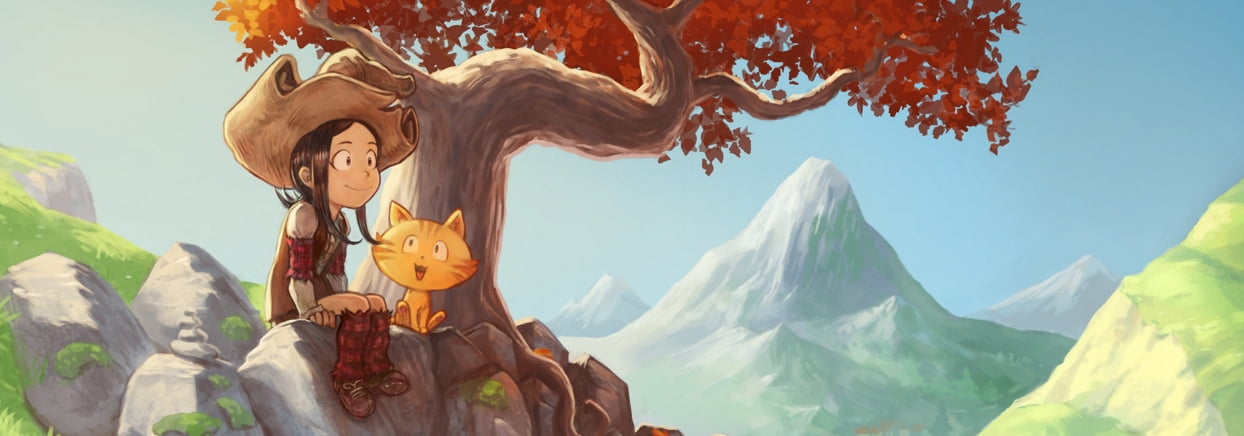
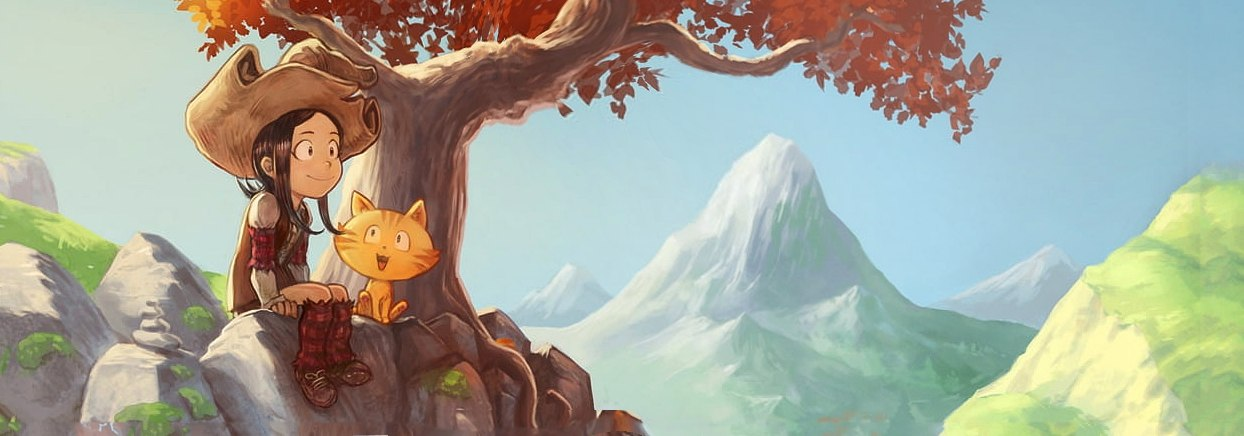
Refactor supportme.php: now modular across homepage, webcomic article, philosophy
All this part of the website had their own Patreon button, alternatives and it wasn't
consistent. This commit port everything to the supportme.php , and then display it as
a card on the target pages. Easier to maintain and also more consistent.

diff --git a/themes/peppercarrot-theme_v2/css/theme.css b/themes/peppercarrot-theme_v2/css/theme.css
@@ -47,42 +47,37 @@ h4{font-size:1.2rem}
 .responsive-menu label { color: #3A2619; background-color: transparent; font: normal 2rem 'ComicSpice', cursive; }
 
 /* translation pills */
-.translabar { padding: 0 0 0 0; margin: 0.5rem 0; max-width: 990px }
+.translabar { padding: 0 0 0 0; margin: 0.5rem 0; max-width: 1060px }
 .translabar li { background-color: #FFF; margin: 0.2rem; padding: 0.3rem 0.4rem; border: solid 1px #D7EBFA; border-radius: 10px }
 .translabar li.active { background-color: #D7EBFA; border: solid 1px #B1D6F2;}
 .translabar a { text-decoration: none; font-size: 0.9rem; }
 
 /* HOMEPAGE */
+
 /* cover */
 .cover { height: 400px; border-radius: 0.4rem; color:#DDD; margin-bottom: 0.3rem; background: url('../img/pepper-carrot-cover3_by-david-revoy.jpg') no-repeat center left; }
-.cover h1 { color: #FFF; text-shadow: 0 2px 2px #000; margin: 0.4rem; line-height: 2.6rem; font-size: 2.4rem; text-align:right; }
-.covertextoverlay { position: absolute; right: 2.5rem; top: 1.6rem; text-align:right; }
-#coverpatronbox { color: #222; background-color: #FFF; width: 375px; height: 170px; padding: 10px 4px; margin: 2.5rem 0 0 auto; text-align: center; font-size: 1.2rem; box-shadow: 0 3px 3px rgba(0,0,0,0.3); }
-#coverpatronbox img{ margin-top: 6px; }
-#alternativesbox { color: #8F8F8F; position: absolute; bottom: 13px; right: 6px; width: 360px; font-size: 0.95rem; line-height: 1.8; text-align: center;  }
-
-.custombigbutton	{ font-weight: bold; display:block; background-color: #777;	border-color: transparent; color: #fff; cursor: pointer; padding: .7rem 1.2rem; box-shadow: 0 3px 3px rgba(23,23,23,0.3); border-radius: 0.6rem; text-shadow: 0 2px rgba(18,18,18,0.3);}
-.custombigbutton:hover	{ opacity: 0.8;}
-.liberapay { width: 220px; font-size: 1.8rem; color: #fff; padding-left: 3.5rem; background: #f6c914 url('../img/logo-liberapay.svg') no-repeat center left; margin: 0.4rem auto 0 auto; }
-
-.custombutton	{ font-weight: bold; font-size: 0.85rem; background-color: #777;	border-color: transparent; color: #fff; cursor: pointer; padding: .3rem 0.4rem; margin-right: 0.1rem; box-shadow: 0 2px 2px rgba(18,18,18,0.3); border-radius: 0.3rem; text-shadow: 0 1px rgba(18,18,18,0.3);}
-.custombutton:hover	{ opacity: 0.8;}
-.minipatreon { color: #fff; padding-left: 1.9rem; background: #f96854 url('../img/logo-patreon.svg') no-repeat center left 3px; }
-.tipeee { color: #fff; padding-left: 1.9rem; background: #d84759 url('../img/logo-tipeee.svg') no-repeat center left 3px; }
-.paypal { color: #fff; padding-left: 1.9rem; background: #FFC438 url('../img/logo-paypal.svg') no-repeat center left 3px; }
-.iban { color: #fff; padding-left: 1.9rem; background: #4595e0 url('../img/logo-iban.svg') no-repeat center left 3px; }
-
-#alternatives .link { color: #8F8F8F; text-decoration: underline; }
-#alternatives .link:hover { color: #333; }
+.cover h1 { color: #FFF; margin: 0.4rem; line-height: 2.6rem; font-size: 2.4rem; text-align:right; text-shadow: 0 1px 1px rgba(0,0,0,0.4), 0 2px 2px rgba(0,0,0,0.3), 0 4px 2px rgba(0,0,0,0.4);}
+.covertextoverlay { position: absolute; right: 5.5rem; top: 3rem; text-align:right; }
+#coversupportbox { position: absolute; right: -0.85rem; top: 9.5rem; color: #222; width: 450px; height: 190px; text-align: center; }
 .homepage-title { font-family: 'ComicSpice', cursive; font-size:1.5rem;}
-.joinnow { color: #fff; background-color: #232D32; padding:0.8rem 0.7rem 0.6rem 0.7rem; border-radius: 0.4rem; box-shadow: 0 5px 5px rgba(23,23,23,0.3);}
-.joinnow:hover { color: #fff; text-decoration: none; background-color: #223B48; }
-.moreinfo { color: #587930; background: #a7e059; background: linear-gradient(#baf765, #a7e059); padding:0.8rem 0.7rem 0.6rem 0.7rem; border-radius: 0.4rem; box-shadow: 0 5px 5px rgba(23,23,23,0.3);}
-.moreinfo:hover { color: #82C036; text-decoration: none; background: #a7e059; background: linear-gradient(#EDFFA6, #a7e059); }
+
+/* Support box */
+.bigbuttonpatreon { font-size: 1.8rem; font-weight: bold; font-family: ubuntu, helvetica, arial, sans-serif; color: #FFFFFF; text-align: center; min-height: 80px; min-width: 374px; padding: 0 0 10px 0; margin: 0 auto; display: inline-block; text-decoration: none; border-radius: 10px; box-shadow: 0 2px 3px rgba(23,23,23,0.3);  background: #F96854 url('../img/logo-patreon.svg') no-repeat 120px 36px; background-size: 42px 42px; text-shadow: 0 1px 1px rgba(0,0,0,0.4) }
+.bigbuttonpatreon:hover { color: #FFF; text-decoration: none;}
+.alternatives {font-size: 0.8rem; font-weight: normal; font-family: ubuntu, helvetica, arial, sans-serif; color: rgba(0,0,0,0.5); margin: 0.5rem 0;}
+.custombutton	{ font-size: 0.85rem; font-weight: bold; font-family: ubuntu, helvetica, arial, sans-serif; color: #FFFFFF; text-align: center; padding: .3rem 0.4rem; margin-right: 0.1rem; background-color: #777;	border-color: transparent; box-shadow: 0 2px 2px rgba(18,18,18,0.3); border-radius: 0.3rem; cursor: pointer; text-shadow: 0 1px 1px rgba(0,0,0,0.4);  }
+.custombutton:hover	{ color: #FFF; opacity: 0.8; }
+.tipeee { padding-left: 32px; background: #d84759 url('../img/logo-tipeee.svg') no-repeat center left 3px; }
+.paypal { padding-left: 28px; background: #FFC438 url('../img/logo-paypal.svg') no-repeat center left 3px; }
+.liberapay { padding-left: 28px; background: #ffd115 url('../img/logo-liberapay.svg') no-repeat center left 3px; }
+.G1 { padding-left: 28px; background: #2873B7 url('../img/logo-g1.svg') no-repeat center left 3px; }
+.iban { padding-left: 28px; background: #4595e0 url('../img/logo-iban.svg') no-repeat center left 3px; }
+
 /* box */
 .homebox { position: relative;}
 .homebox h2 { font: normal 1.5rem 'ComicSpice', cursive; margin: 0 0 0.4rem 0; padding: 0 0; min-height: 1rem; text-decoration: none; overflow: hidden; white-space: nowrap; }
 .news {margin-bottom: 1rem;}
+
 /* last episode */
 .lastep { position: relative; border-radius: 0.4rem; }
 .lastep img { border: solid 1px #EFEFEF; border-radius: 0.4rem; border: solid 1px #EFEFEF; width:100% }
@@ -150,22 +145,6 @@ input[type=search] { margin: 1.2rem 0 0 0; background: #ededed url(../img/search
 /* ----------- */
 /* link to sources */
 .sourcebutton { margin: 0 auto; background: #D7EBFA url('../ico/dl_sources.svg') no-repeat center left 10px; padding: 0.6rem 0.7rem 0.6rem 3rem; border-radius: 10px }
-
-/* Follow me footer webcomic */
-.followcomic { padding: 0 0; margin: 0 0; font-size: 1.3rem; color: #000; font-family: 'ComicSpice';}
-.followcomic b{ font-size: 1.5rem;}
-.followbutton { display: block; text-decoration: none; color: #FFFFFF; width: 100%; padding: 0.1rem 0.5rem; margin: 0.1rem 0rem; border-radius: 10px; box-shadow: 0 2px 3px rgba(23,23,23,0.3); }
-.followbutton:hover { text-decoration: underline; color: #FFF; }
-
-/* Support */
-.patreon { padding: 1.5rem 0 0 2.5rem; margin: 0 auto; background: url('../img/followbackground_patreon-logo.png') no-repeat center left; background-color: #F96854; min-height: 80px; max-width:480px; text-align: center; color: #111; font-size: 1.5rem; margin-bottom: 0.8rem; color: #FFF; }
-.patreon:hover { text-decoration: none; }
-.supportmetxt { color: #999; font: 1rem ubuntu,Arial,sans ;}
-.supportmetxt a { color: #2B92D7; text-decoration: underline; }
-.donationillustration { display: block; min-height: 280px; background: url('../img/followbackground_patreon_illu.jpg') no-repeat center;}
-.paypal { min-height: 45px; text-align: center;}
-div.paypal form { margin-bottom: 0; display: inline;}
-div.paypal form input { padding: 0; background: transparent; border: 2px inset #D9D9D9; width: auto; border-radius: 0; }
 
 /* Network */
 .twitter { background: url('../img/followbackground_twitter.jpg') no-repeat center left; background-color: #3DB8E4; min-height: 80px; text-align: right;}
@@ -282,14 +261,14 @@ a:hover { text-decoration:none;}
 @media (max-width: 900px) {
 input[type=search] { margin: 1.2rem 0 1.2rem 0; max-width: 300px; }
 .cover h1 { font-size: 2.2rem; margin: 1rem 0 0.4rem 0; }
-.cover { background: url('../img/pepper-carrot-cover2_by-david-revoy.jpg') no-repeat 25% 80%; }
+.cover { background: url('../img/pepper-carrot-cover3_by-david-revoy.jpg') no-repeat 25% 80%; }
 .moreposts { text-align: center; margin: 1rem 0 0 0; }
 }
 
 /* vertical++ */
 @media (max-width: 700px) {
 .cover h1 { font-size: 1.8rem; margin: 0.3rem 0 0.4rem 0; }
-.cover { height: 350px; background: url('../img/pepper-carrot-cover2_by-david-revoy.jpg') no-repeat 35% 5%; }
+.cover { height: 350px; background: url('../img/pepper-carrot-cover3_by-david-revoy.jpg') no-repeat 35% 5%; }
 .covertextoverlay { right: 1.3rem;}
 }
 
@@ -316,8 +295,9 @@ input[type=search] { margin: 1.2rem 0 1.2rem 0; max-width: 300px; }
 .cover h1 { font-size: 1.48rem; color: #111; margin: 0.3rem 0 1.1rem 0; text-shadow:none; }
 .joinnow { font-size: 0.8rem }
 .moreinfo { font-size: 0.8rem }
-.cover { background: url('../img/pepper-carrot-cover2_by-david-revoy.jpg') no-repeat 28% bottom; }
+.cover { background: url('../img/pepper-carrot-cover3_by-david-revoy.jpg') no-repeat 28% bottom; }
 .buttoncoverbox { top: 0px; right: 1.3rem; padding-right: 0.5rem} 
+.bigbuttonpatreon { min-width: 360px;}
 }
 
 /* footer */

diff --git a/themes/peppercarrot-theme_v2/supportme.php b/themes/peppercarrot-theme_v2/supportme.php
@@ -1,19 +1,17 @@
-<?php if(!defined('PLX_ROOT')) exit; 
-$lang = $plxShow->defaultLang($echo);
-?>
-<!-- Support me -->
-<div class="followcomic col sml-12 med-12 lrg-12">
-  <div class="grid">
-    <div class="col sml-12 med-12 lrg-12">
-      <a class="followbutton patreon" href="https://www.patreon.com/davidrevoy">
-        <?php $plxShow->lang('HOMEPAGE_PATREON_BUTTON') ?>
-      </a>
-        <div class="supportmetxt">
-          <?php $plxShow->lang('HOMEPAGE_ALTERNATIVES') ?>
-          <a href="https://liberapay.com/davidrevoy/" class="link">Liberapay</a>,
-          <a href="https://www.tipeee.com/pepper-carrot" class="link">Tipeee</a>,
-          <a href="https://paypal.me/davidrevoy" class="link">Paypal</a><?php $plxShow->lang('UTIL_DOT') ?>
-        </div>
+<?php if(!defined('PLX_ROOT')) exit;?>
+<div style="padding: 0.8rem 0 0.8rem 0;">
+  <a class="bigbuttonpatreon" href="https://www.patreon.com/davidrevoy">
+    <span style="font-size: 1.2rem; font-weight: normal;"><?php $plxShow->lang('HOMEPAGE_PATREON_BOX') ?></span><br>
+    <span style="padding-left: 50px;">Patreon</span>
+  </a>
+  <div>
+    <div class="alternatives">
+      <?php $plxShow->lang('HOMEPAGE_ALTERNATIVES') ?>
     </div>
+    <a href="https://www.tipeee.com/pepper-carrot" title="<?php $plxShow->lang('HOMEPAGE_PATREON_BOX') ?> Tipeee" class="custombutton tipeee">Tipeee</a>
+    <a href="https://liberapay.com/davidrevoy/" title="<?php $plxShow->lang('HOMEPAGE_PATREON_BOX') ?> Liberapay" class="custombutton liberapay">Liberapay</a>
+    <a href="https://paypal.me/davidrevoy" title="Send money via Paypal" class="custombutton paypal">Paypal</a>
+    <a href="https://g1.duniter.fr/#/app/wot/4nosBEwT8xQfMY11sq32AnZF1XcoqzG9tArXJq9mu8Wc/DavidRevoy" title="Send G1 to David Revoy" class="custombutton G1">G1</a>
+    <a href="<?php $plxShow->urlRewrite('?static12/iban-and-mail-adress') ?>" title="Send money via IBAN or Send goods via mail" class="custombutton iban">Bank/Mail</a>
   </div>
 </div>

diff --git a/themes/peppercarrot-theme_v2/static-homepage.php b/themes/peppercarrot-theme_v2/static-homepage.php
@@ -19,18 +19,8 @@ $lang = $plxShow->defaultLang($echo);
         <div class="cover">
           <div class="covertextoverlay">
             <h1><?php $plxShow->lang('HOMEPAGE_BIG_TEXT') ?></h1>
-            <div id="coverpatronbox">
-              <?php $plxShow->lang('HOMEPAGE_PATREON_BOX') ?>
-              <br/>
-                <a href="https://liberapay.com/davidrevoy/" title="<?php $plxShow->lang('HOMEPAGE_PATREON_BOX') ?> Liberapay" class="custombigbutton liberapay">Liberapay</a>
-              <br/>
-              <div id="alternativesbox">
-                <?php $plxShow->lang('HOMEPAGE_ALTERNATIVES') ?><br/>
-                <a href="https://www.patreon.com/davidrevoy" title="<?php $plxShow->lang('HOMEPAGE_PATREON_BOX') ?> Patreon" class="custombutton minipatreon">Patreon</a>
-                <a href="https://www.tipeee.com/pepper-carrot" title="<?php $plxShow->lang('HOMEPAGE_PATREON_BOX') ?> Tipeee" class="custombutton tipeee">Tipeee</a>
-                <a href="https://paypal.me/davidrevoy" title="Send money via Paypal" class="custombutton paypal">Paypal</a>
-                <a href="<?php $plxShow->urlRewrite('?static12/iban-and-mail-adress') ?>" title="Send money via IBAN or Send goods via mail" class="custombutton iban">IBAN/Mail</a>
-              </div>
+            <div id="coversupportbox">
+            <?php include(dirname(__FILE__).'/supportme.php'); ?>
             </div>
           </div>
         </div>

diff --git a/themes/peppercarrot-theme_v2/static-philosophy.php b/themes/peppercarrot-theme_v2/static-philosophy.php
@@ -15,16 +15,9 @@
        
        <article class="philosophy col sml-12 med-12 lrg-12 text-center" role="article">
          <?php $plxShow->lang('PHILOSOPHY_TOP') ?>
-         <b>
-           <?php $plxShow->lang('HOMEPAGE_PATREON_BOX') ?>
-           <a href="<?php $plxShow->lang('HOMEPAGE_MAINSERVICE_LINK') ?>" class="link">Patreon</a>
-         </b>
-         <br/>
-         <?php $plxShow->lang('HOMEPAGE_ALTERNATIVES') ?>
-            <a href="https://liberapay.com/davidrevoy/" class="link">Liberapay</a>,
-            <a href="https://www.tipeee.com/pepper-carrot" class="link">Tipeee</a>,
-            <a href="https://paypal.me/davidrevoy" class="link">Paypal</a><?php $plxShow->lang('UTIL_DOT') ?>
+         <?php include(dirname(__FILE__).'/supportme.php'); ?>
          <?php $plxShow->lang('PHILOSOPHY_BOTTOM') ?>
+         <?php include(dirname(__FILE__).'/supportme.php'); ?>
        </article> 
 
 <!-- Footer infos -->

diff --git a/themes/peppercarrot-theme_v2/article-webcomic.php b/themes/peppercarrot-theme_v2/article-webcomic.php
@@ -58,6 +58,7 @@ $lang = $plxShow->defaultLang($echo);
 <!-- Content -->
 <section class="text-center">
 <?php eval($plxShow->callHook("MyMultiLingueComicDisplay", array(''.$UrlAdressOption.''))) ?>
+  <?php include(dirname(__FILE__).'/share.php'); ?>    
   <small>
     <time datetime="<?php $plxShow->artDate('#num_year(4)-#num_month-#num_day'); ?>"><?php $plxShow->artDate('#num_day #month #num_year(4)'); ?></time>
   </small>
@@ -69,7 +70,6 @@ $lang = $plxShow->defaultLang($echo);
   <div style="clear:both;"><br/></div>
   <footer class="col sml-12 med-12 lrg-12 text-center">
   <?php eval($plxShow->callHook('MyMultiLingueSourceLinkDisplay')) ?>
-  <?php include(dirname(__FILE__).'/share.php'); ?>  
   <?php include(dirname(__FILE__).'/supportme.php'); ?>
   <?php include(dirname(__FILE__).'/navigation.php'); ?>
   </div>
